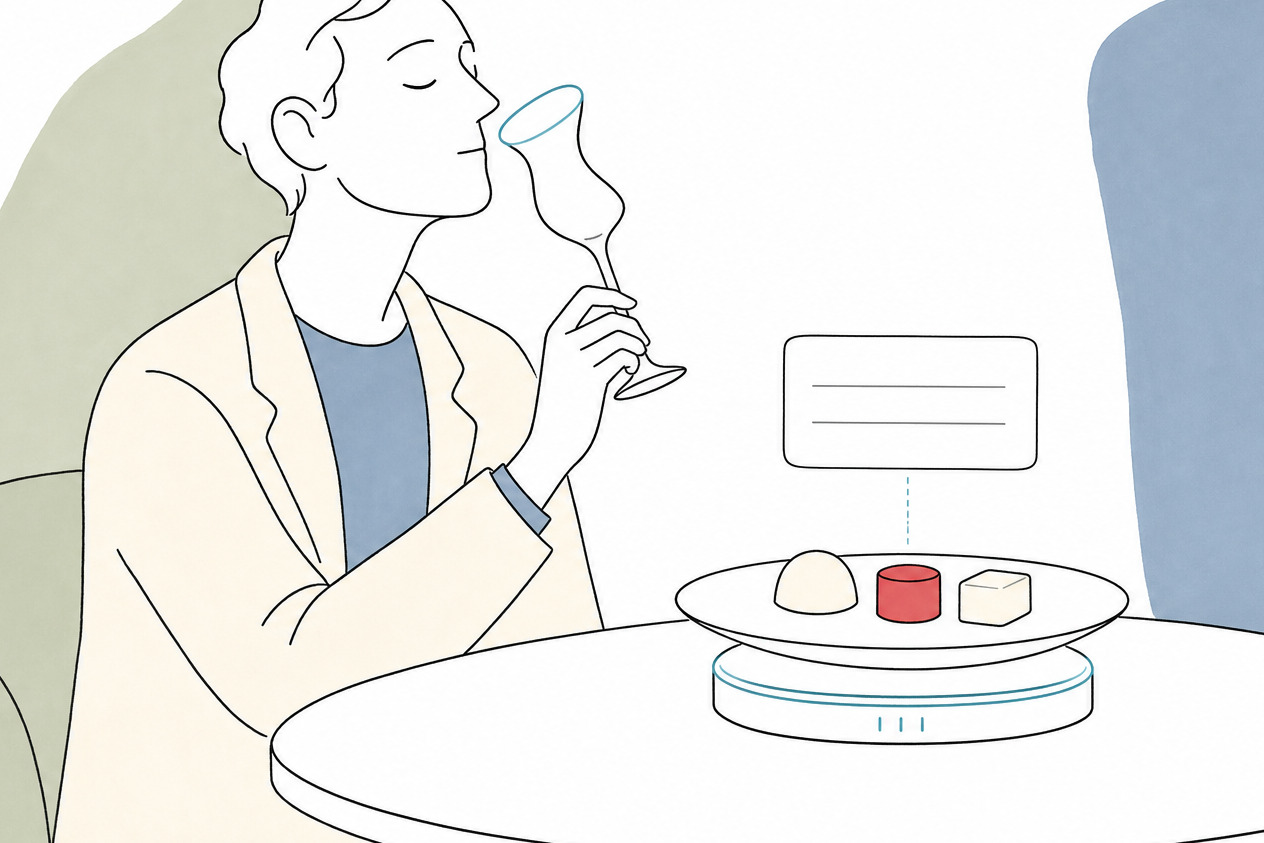
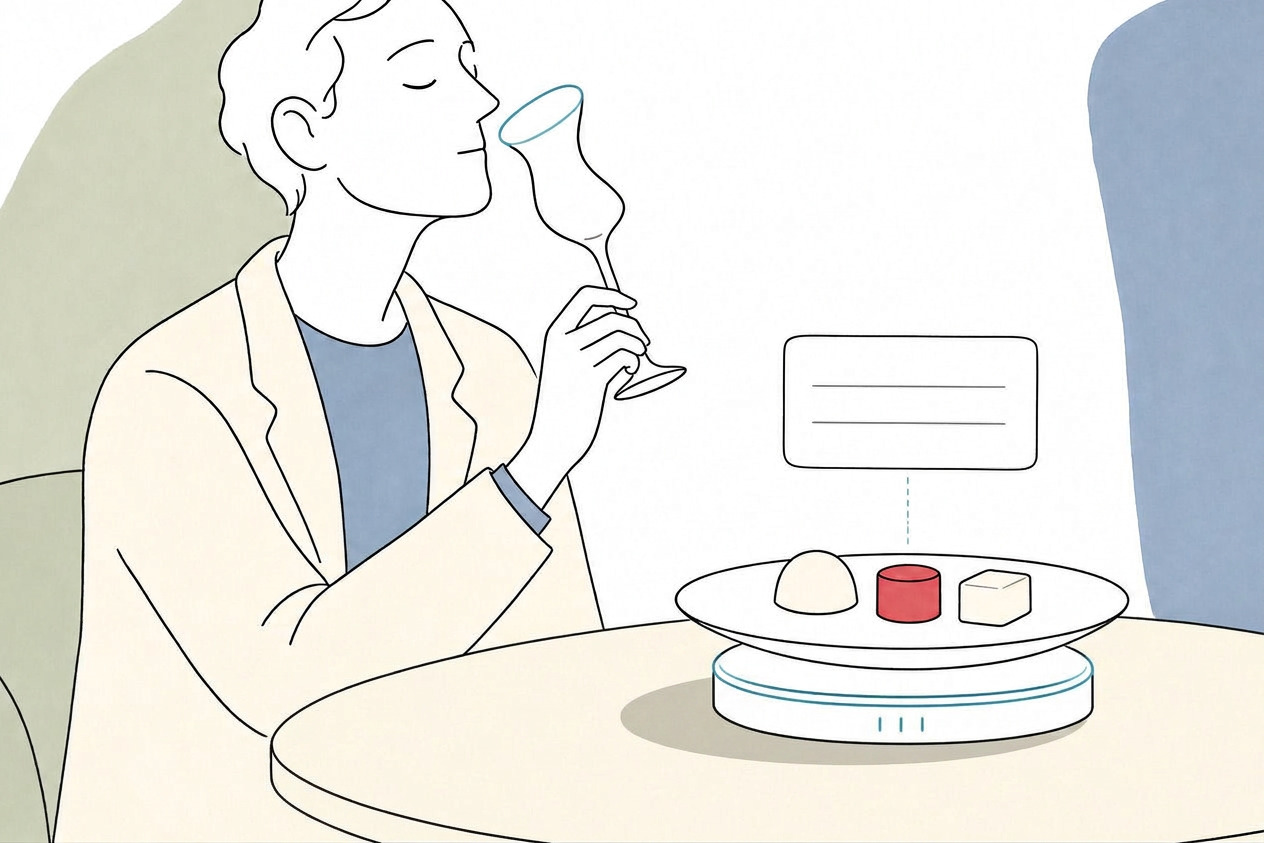
Ground the three module-cover objects that were standing on nothing
m03: the tasting plate and its sensor base now stand on the tabletop with a
shadow. m07: the line under the mortar, cylinder, petri dish, glass and
cloche becomes the back edge of a real shelf. m08: the cup tray moves inside
the table edge, handle and all.

Three further entries in the audit's physics list did not survive
inspection at full size — the m09 tags are tied to their objects, the m06
bowl sits in the gripper, the m10 hands rest on the panel edges — and the
audit now says so instead of keeping a wrong accusation on the record.

Changed region(s): [[0.216, 0.7402, 1.0, 1.0], [0.8022, 0.8019, 0.8331, 0.8327]]

diff --git a/presentation/build/illustration-audit.md b/presentation/build/illustration-audit.md
@@ -413,12 +413,22 @@ that is now right (El Copitas in the cases, Redzepi's wardrobe, Narzi's dark hai
   photograph: one floor line, four stools at one scale with four legs each reaching the floor, every dish
   resting on the counter, both chefs with hands, ceiling panels in a shared perspective.
 - `illo-case-city-space-narzi` — the mirrored wall repeats the bar rather than reflecting it.
-- `illo-m03-senses` — the tasting glass floats unsupported beside the drinker's face.
-- `illo-m07-fnb` — the mortars, carafe and cloche sit on no drawn surface.
-- `illo-m08-venture` — the tray of cups overhangs the table into empty air.
-- `illo-m09-found` — every tag is tied with a string that ends in nothing.
-- `illo-m10-mockup` — the model's roof passes through the assembler's fingers.
-- `illo-m06-ai` — the bowl sits a hand's width above the robot's tray.
+- ~~`illo-m03-senses` — the tasting plate and its sensor base float on blank paper.~~ Fixed 29 October
+  2026: the tabletop runs on behind and under the disc, with one flat shadow.
+- ~~`illo-m07-fnb` — the mortar, cylinder, petri dish, glass and cloche sit on a bare line.~~ Fixed 29
+  October 2026: the line becomes the back edge of a narrow shelf with a front edge, so every object stands
+  on a surface.
+- ~~`illo-m08-venture` — the tray of cups sits at the table edge with the cup handle over nothing.~~ Fixed
+  29 October 2026: the tray moved inside the table, shadow with it.
+- `illo-m03-senses` — still open, and a different fault from the one recorded: the rim of the tasting glass
+  overlaps the drinker's nose instead of stopping at the mouth. One line to move.
+- `illo-m09-found` — **not confirmed on inspection.** The strings end on the crate, the plate's foot, the
+  bell's rim, the bottle's neck, the napkin's fold and the cup's handle. They are attached; the entry was
+  wrong.
+- `illo-m10-mockup` — **not confirmed on inspection.** Both hands rest with the fingers on the top edges of
+  the model's wall panels, above the roofline, not through it.
+- `illo-m06-ai` — **not confirmed on inspection.** The bowl sits in the robot's gripper, on the small plate
+  the arm is holding.
 - `illo-lesson-concept-objects` and `illo-lesson-signals` — panels and objects hang from lines that end
   in mid-air (accepted as a series convention, recorded so it is a decision and not an accident).
 

diff --git a/README.md b/README.md
@@ -264,10 +264,13 @@ four redrawn thin and light in the hand of their own set, and `illo-figure-krate
 `illo-case-dave-arnold.jpg`~~ — done 29 October 2026, both redrawn from their photographs in the case-card
 hand; (3) ~~the two portraits that are still another person — `illo-figure-zarkov.jpg` and
 `illo-figure-talalay.jpg`~~ — done 29 October 2026, both redrawn from their photographs; (4) the physics
-list in `presentation/build/illustration-audit.md` §10.4 — a support line or a hand each for
-`illo-m03-senses`, `illo-m07-fnb`, `illo-m08-venture`, `illo-m09-found`, `illo-m10-mockup`, the Sips foreground
-(the Jiro card was redrawn on 29 October 2026 — one floor line, four stools at one scale, dishes resting on
-the counter, both chefs with hands); (5) one unifying pass over the line weight of the whole series once the list is
+list in `presentation/build/illustration-audit.md` §10.4 — fixed on 29 October 2026 for
+`illo-m03-senses` (the plate now stands on the table), `illo-m07-fnb` (a shelf with a front edge) and
+`illo-m08-venture` (the cup tray moved inside the table); three further entries were checked at full size and
+were **wrong** — `illo-m09-found` ties every tag to its object, `illo-m06-ai` holds the bowl in the gripper,
+`illo-m10-mockup` rests both hands on the panel edges — and the Sips foreground has been fully painted since
+its redraw. What genuinely remains there is one line: the tasting glass in `illo-m03-senses` overlaps the
+drinker's nose; (5) one unifying pass over the line weight of the whole series once the list is
 closed. The checklist used
 for every redraw, and the reasoning behind each verdict, are in
 `presentation/build/illustration-audit.md`.
